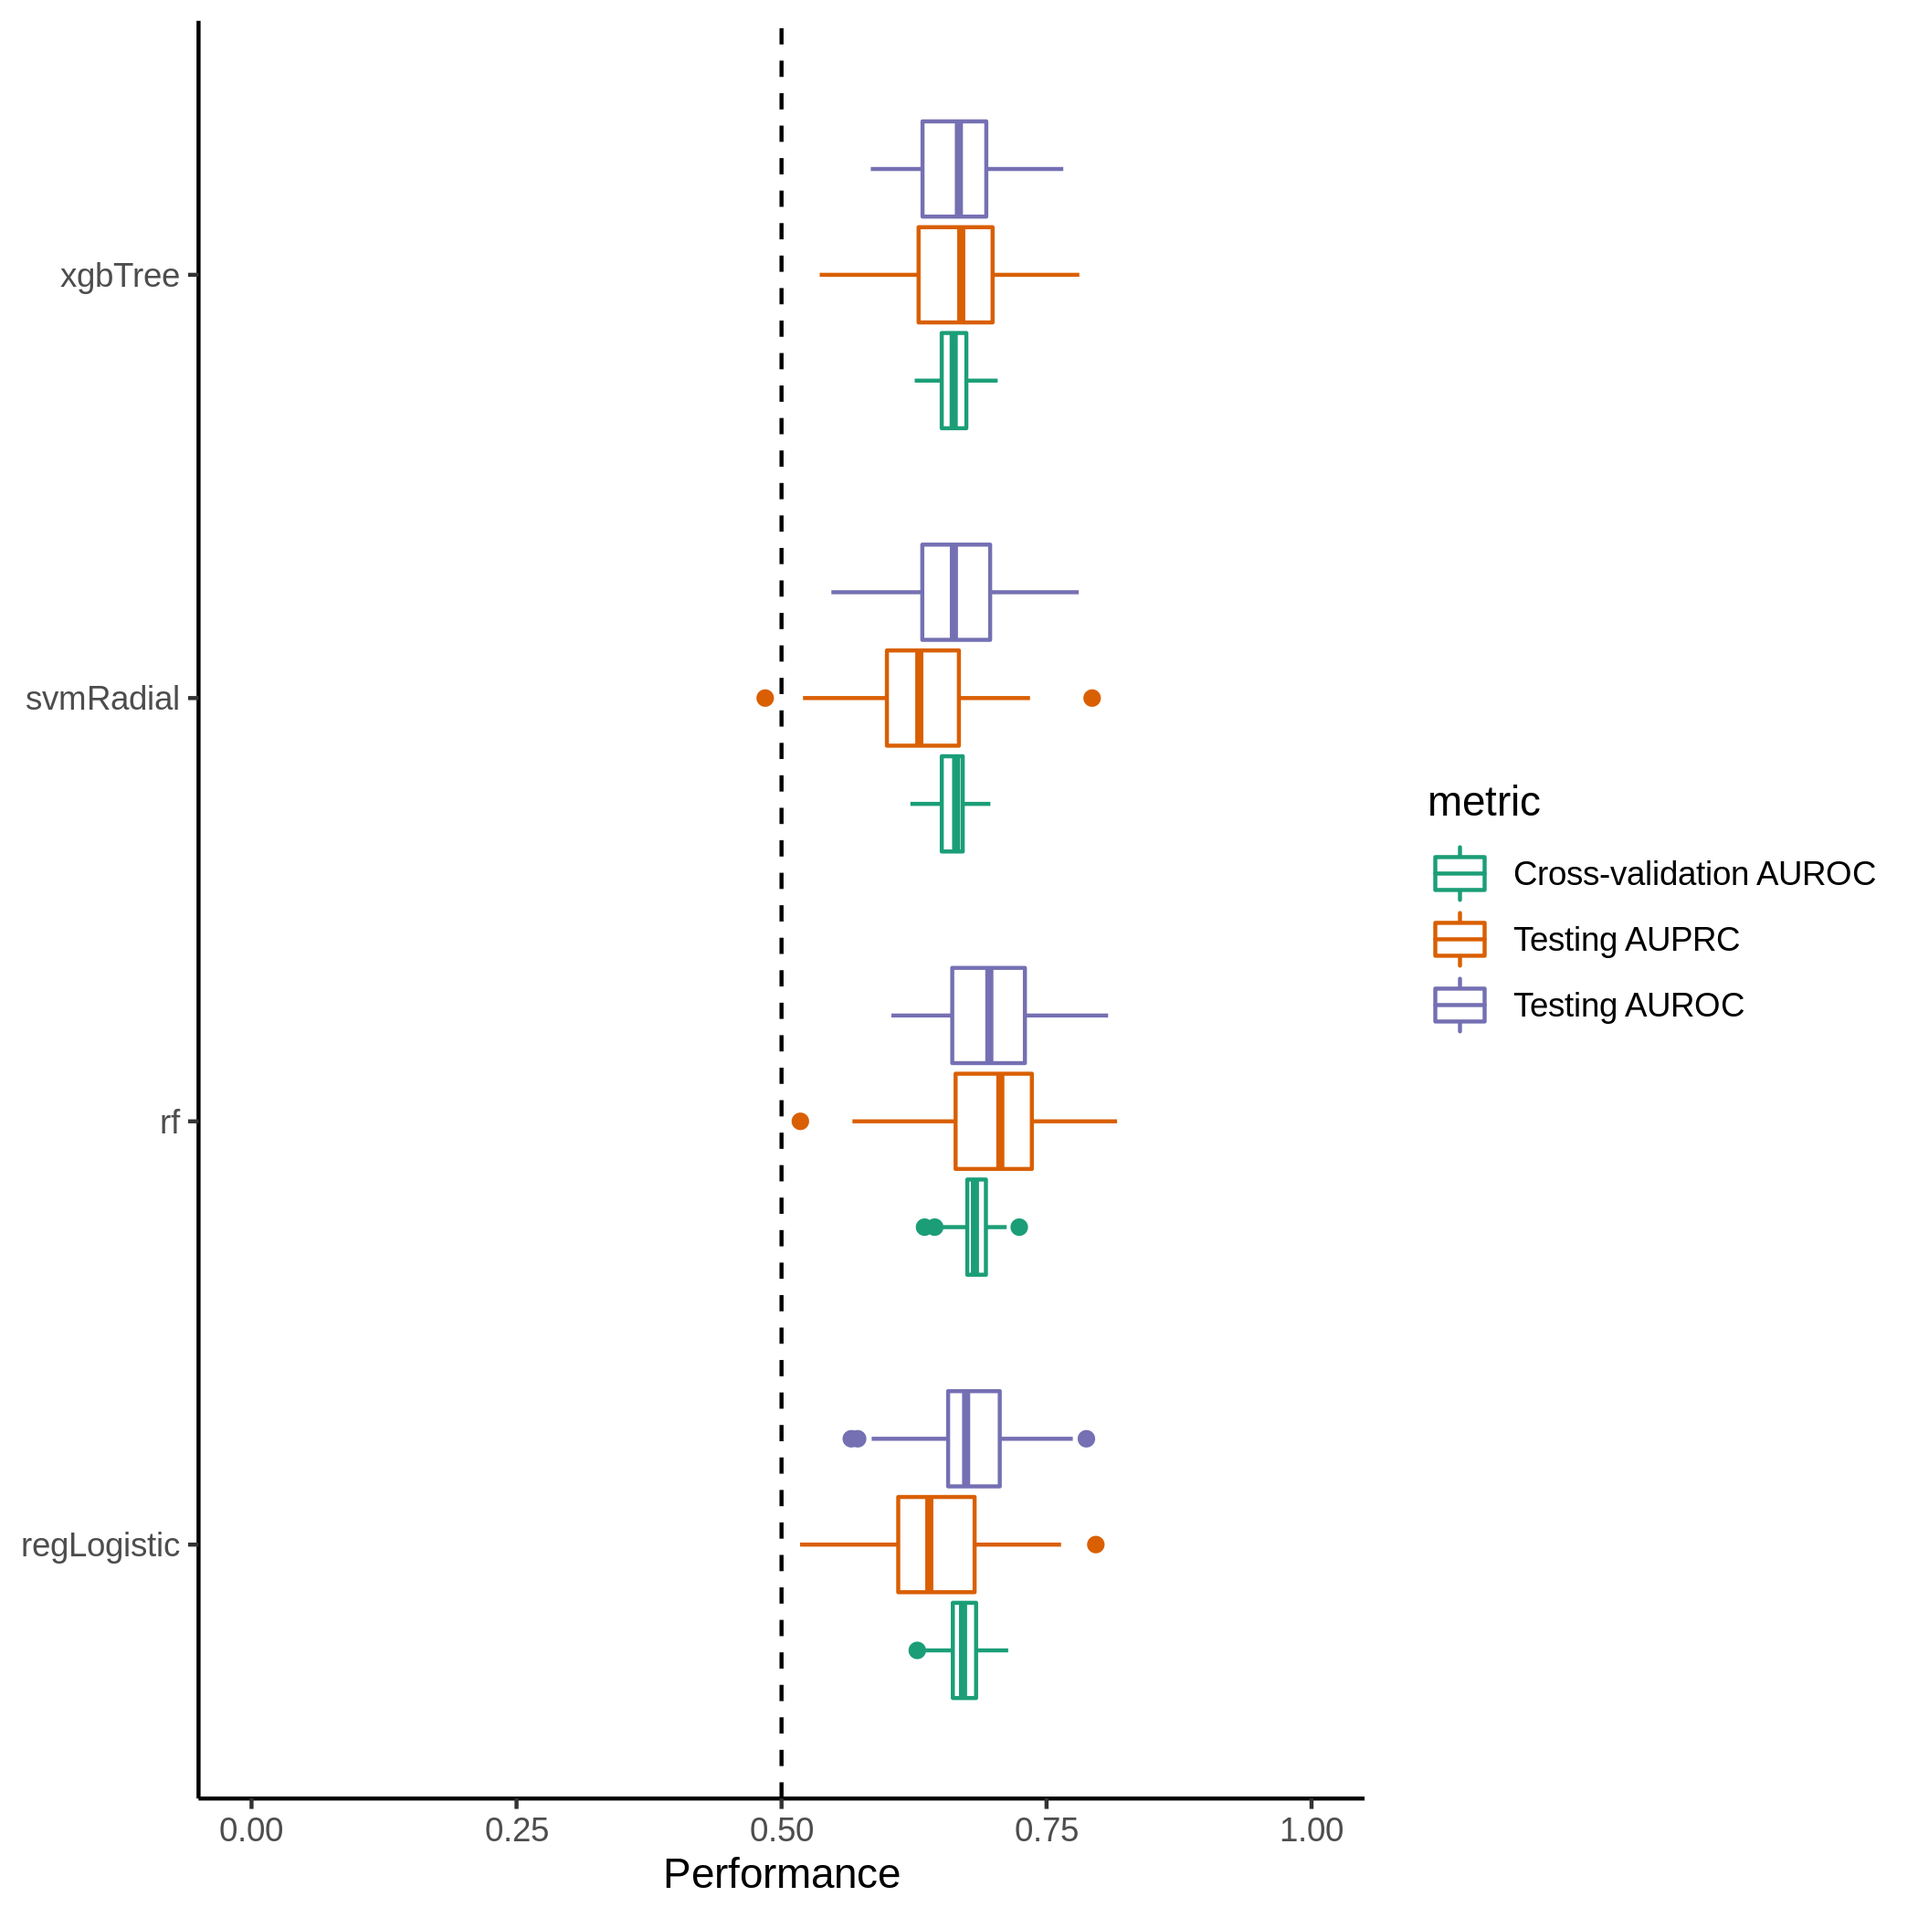
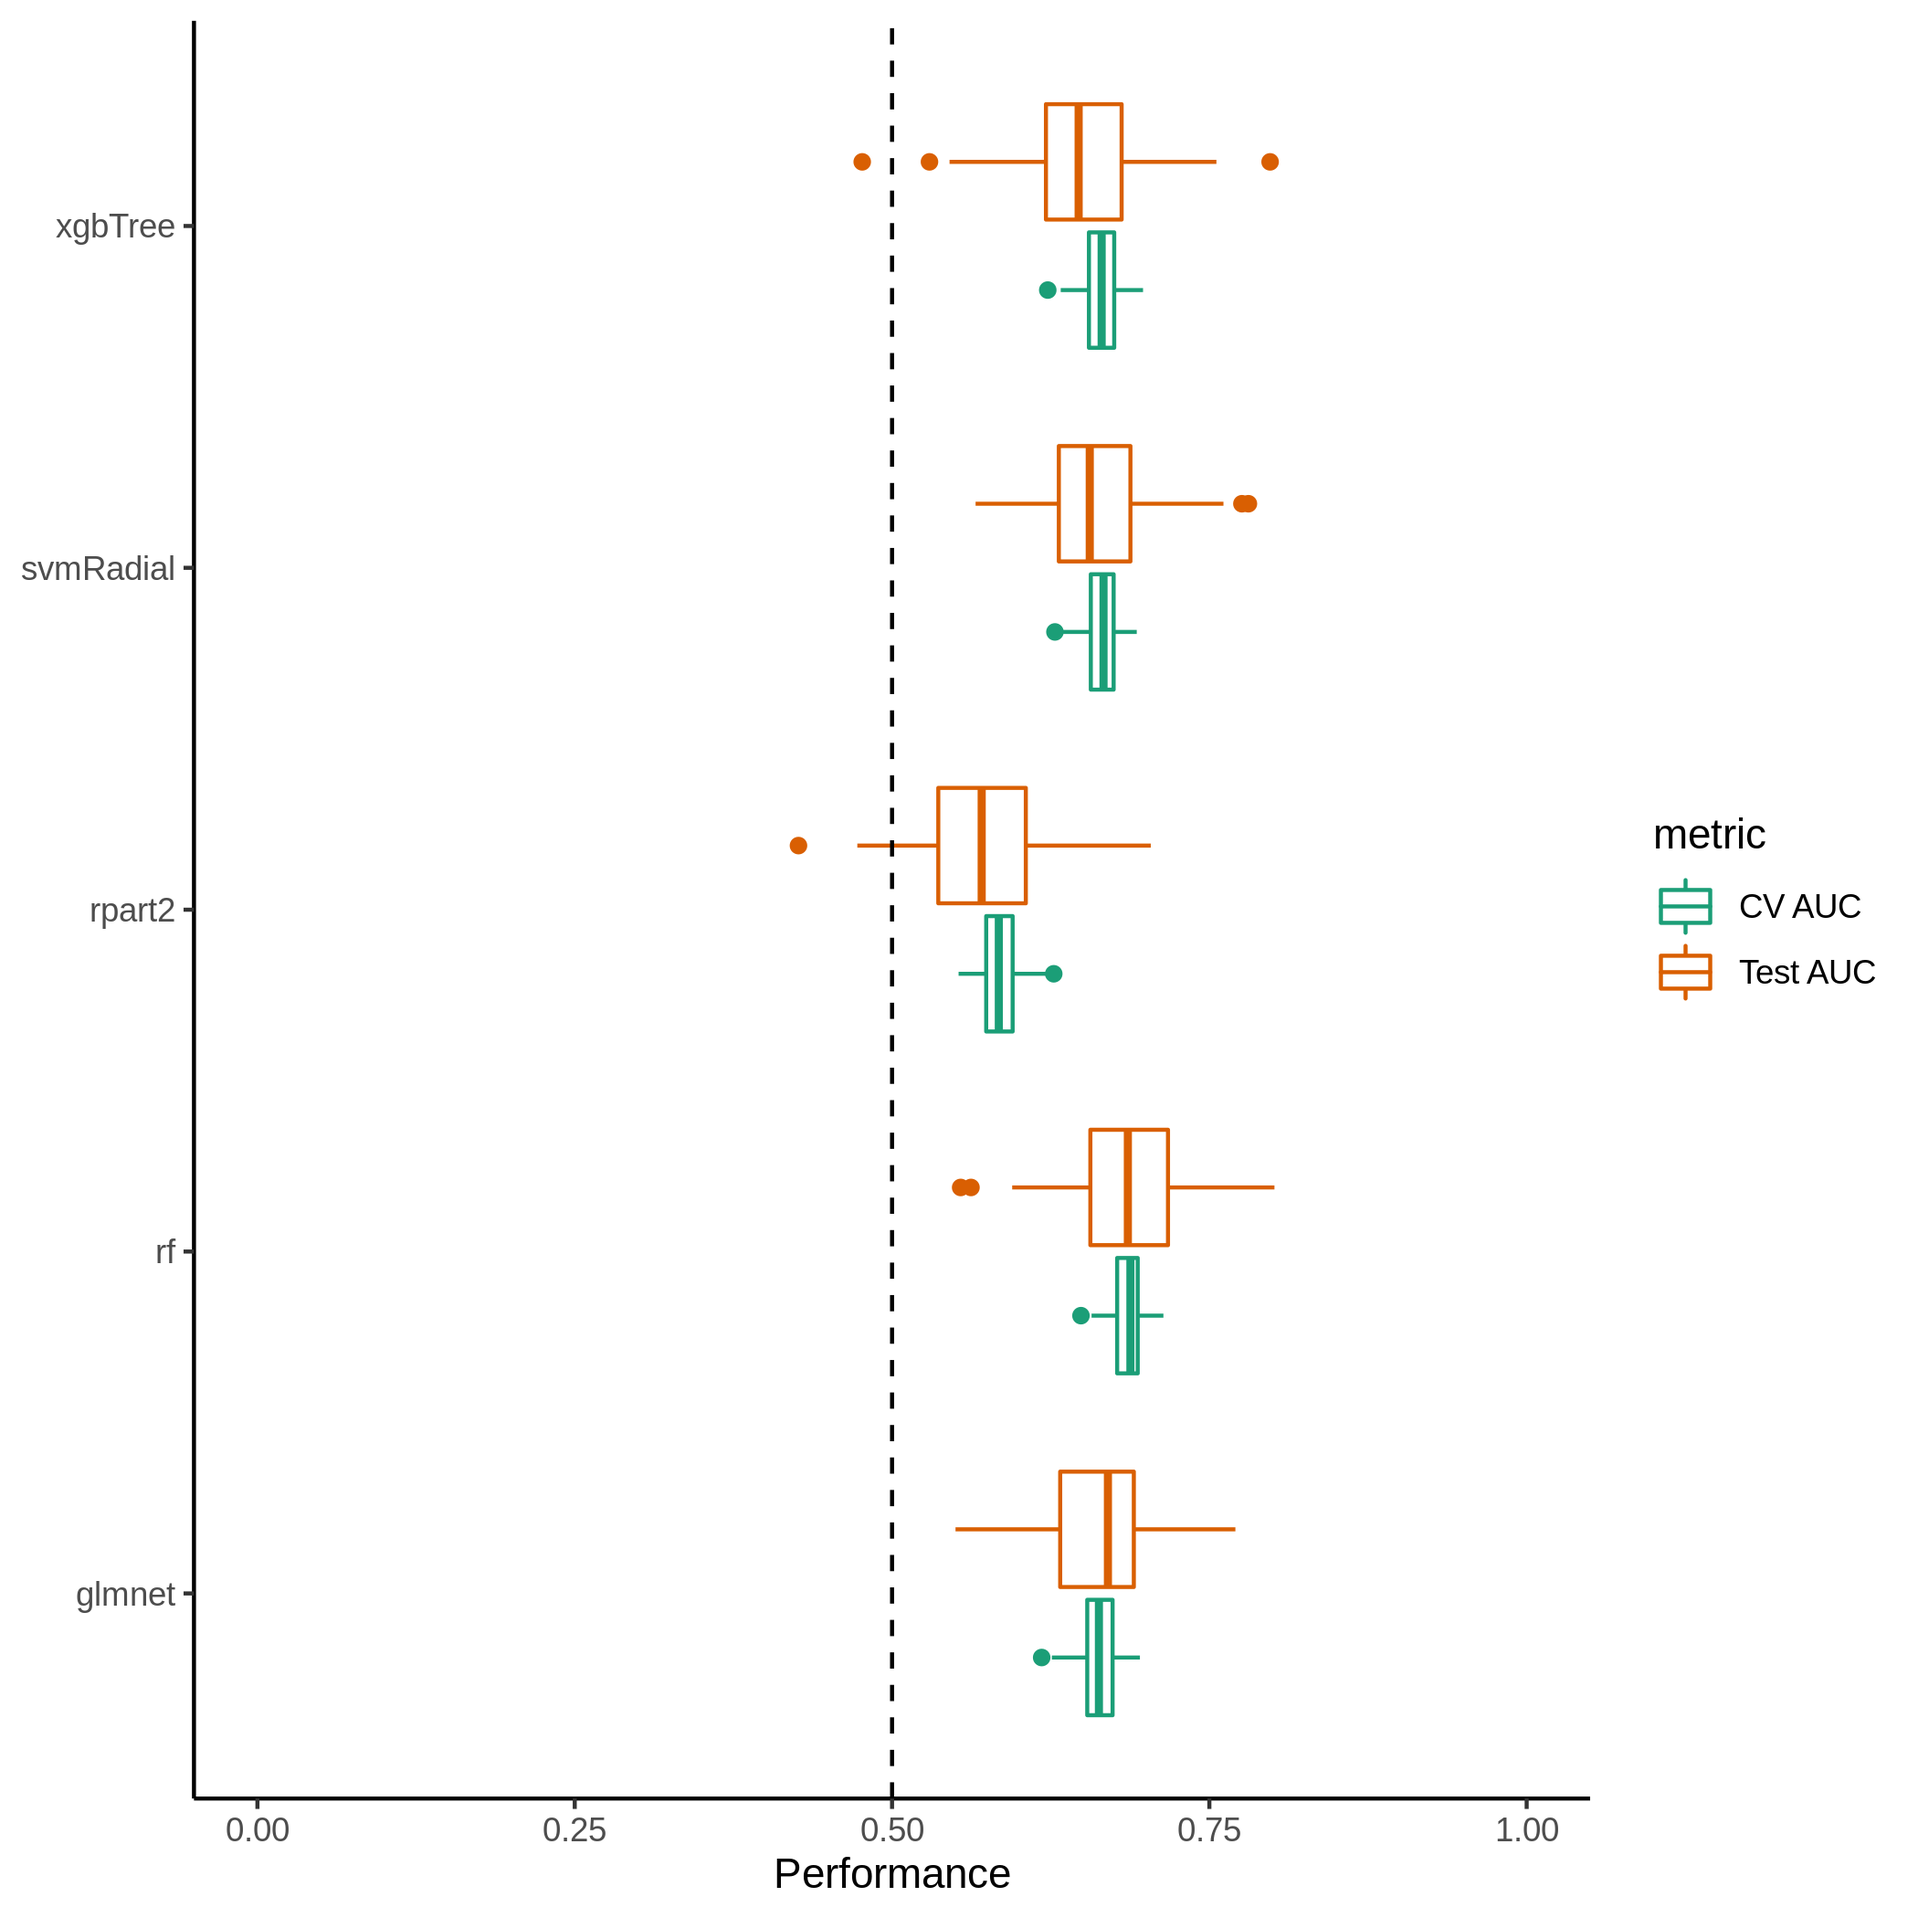
Re-run with glmnet

diff --git a/report.md b/report.md
@@ -1,0 +1,17 @@
+ML Results
+================
+2020-11-13
+
+Machine learning algorithms used include: glmnet, rf, rpart2, svmRadial,
+xgbTree. Models were trained with 100 different random partitions of the
+data into training and testing sets using 5-fold cross validation.
+
+## Model Performance
+
+<img src="figures/performance.png" width="80%" />
+
+## Memory Usage & Runtime
+
+<img src="figures/benchmarks.png" width="80%" />
+
+Each model training run was given 36 cores for parallelization.
